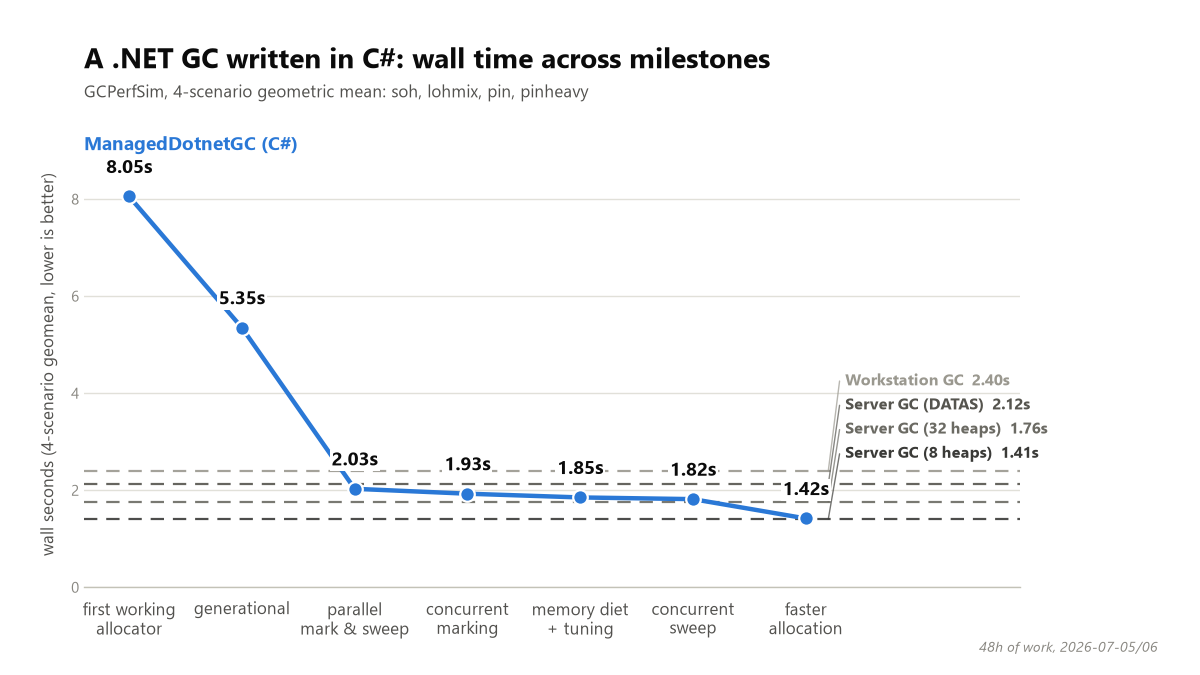
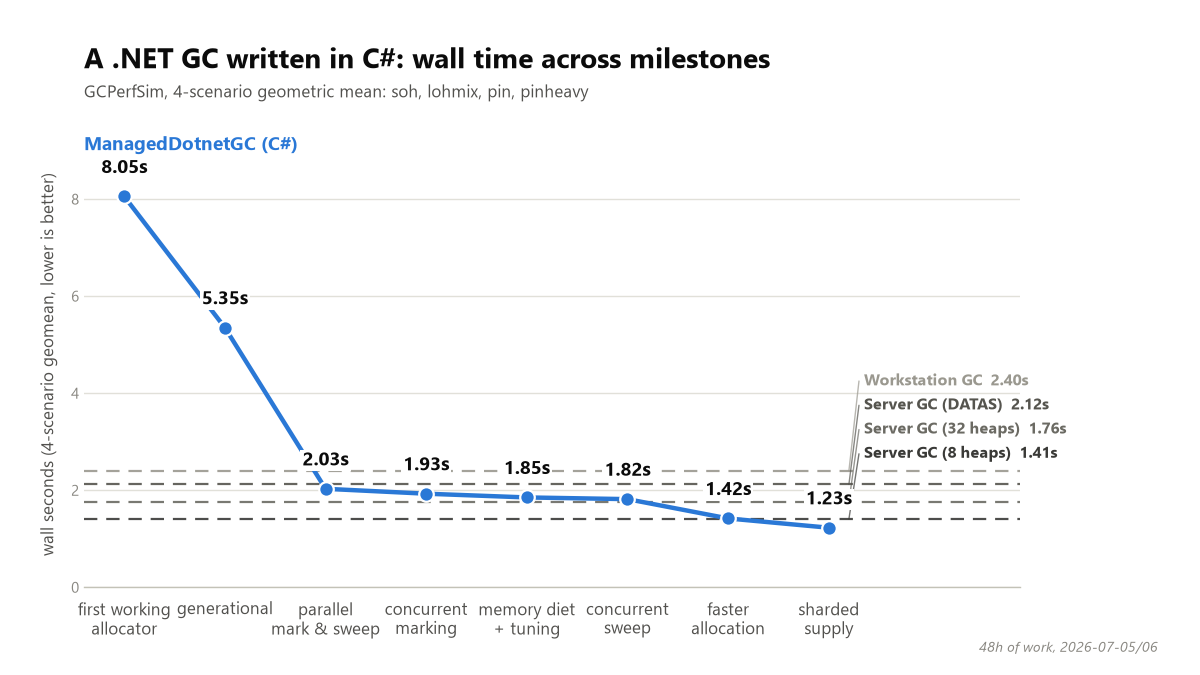
results: milestone charts gain the sharded-supply stage (geomean 1.23s, below tuned SVR-h8)
Second sitting of 2026-07-06, drift-checked: re-run anchors came back +2.7-2.9%
slower (WKS 2.399 -> 2.465, h8 1.405 -> 1.445), so the raw point is conservative
against the earlier sitting's reference lines. Same-sitting ratio vs h8: 0.849.
WS chart point 2.50 GB (h8 anchor re-ran at 2.53). Also fixes the session record's
"past midnight" claim (the sitting ended before midnight).

Changed region(s): [[0.0925, 0.2178, 0.8942, 0.8089], [0.0617, 0.8711, 0.7092, 0.9644]]

diff --git a/experiments/results/2026-07-06-milestone-graph/make_graph.py b/experiments/results/2026-07-06-milestone-graph/make_graph.py
@@ -20,6 +20,12 @@ MILESTONES = [
     ("M7 tuning",       "backfill-m7-r2", "7689ab1", "custom"),
     ("M6.5 sweep-assist","m65s2-final-r2", "765f680", "custom"),
     ("faster allocation (M7 mutator war)", "m7-stash2", "e65fa79", "custom"),
+    # Late-evening second sitting of 2026-07-06 (eighth session). Cross-sitting drift
+    # CHECKED via re-run anchors (label m7-shards-anchor): stock WKS geomean 2.399 →
+    # 2.465, SVR-h8 1.405 → 1.445 — the machine ran +2.7–2.9% SLOWER, so charting this
+    # point raw against the earlier sitting's reference lines is conservative (the
+    # same-sitting ratio vs h8 is 0.849).
+    ("sharded supply (M7)", "m7-shards", "98517ee", "custom"),
 ]
 
 # Stock anchors also re-measured tonight in the same sitting (label m7-stash2-anchor),
@@ -129,6 +135,12 @@ def main():
                   "(added 2026-07-06), but today's backfill ran it anyway against the old GC build using "
                   "the current `bench-gcperfsim.ps1`/GCPerfSim — it completed normally, so no scenario "
                   "is actually missing in the final chart.")
+    lines.append("- **sharded supply (M7)** (`98517ee`) is a *second sitting* late the same evening. "
+                  "Cross-sitting drift was measured, not assumed: the stock anchors were re-run in that "
+                  "sitting (label `m7-shards-anchor`) and came back +2.7–2.9% slower (WKS geomean "
+                  "2.399 → 2.465, SVR-h8 1.405 → 1.445), so charting the point raw against the earlier "
+                  "sitting's reference lines is conservative. Same-sitting ratio vs tuned SVR-h8: "
+                  "**0.849** (per-scenario 0.95/0.82/0.96/0.69 — the first full-matrix win).")
 
     with open(f"{OUT_DIR}\\summary.md", "w", encoding="utf-8") as f:
         f.write("\n".join(lines) + "\n")

diff --git a/experiments/results/2026-07-06-milestone-graph/plot_milestones_ws.py b/experiments/results/2026-07-06-milestone-graph/plot_milestones_ws.py
@@ -17,6 +17,10 @@ milestones = [
     ("memory diet\n+ tuning", 2.436),
     ("concurrent\nsweep", 2.490),
     ("faster\nallocation", 2.445),
+    # Second sitting of 2026-07-06 (late evening): median peaks 1985/2549/2001/4219 MB.
+    # Same-sitting h8 anchor re-ran at 2.530 GB geomean, so the point stays below the
+    # tuned config on the memory axis too (lohmix's bimodal peak is the open item).
+    ("sharded\nsupply", 2.497),
 ]
 
 # (label, line y, explicit label y). DATAS discovery 2026-07-06: bare gcServer=1 is
@@ -25,7 +29,9 @@ milestones = [
 # the same hand-picked label_y slots still keep everything clear (verified by re-render).
 stock_refs = [
     ("Server GC (32 heaps)", 6.129, 5.60, "#6b6a63"),
-    ("Server GC (8 heaps)", 2.515, 3.10, "#3a3a37"),
+    # label lifted 3.10 → 3.85 when the 8th stage landed: the new last point's own
+    # value label sits at the same height the 3.10 slot used
+    ("Server GC (8 heaps)", 2.515, 3.85, "#3a3a37"),
     ("Server GC (DATAS)", 1.680, 1.05, "#55544e"),
     ("Workstation GC", 1.582, 0.55, "#9a988f"),
 ]

diff --git a/experiments/results/2026-07-06-milestone-graph/plot_milestones.py b/experiments/results/2026-07-06-milestone-graph/plot_milestones.py
@@ -9,13 +9,17 @@ OUT_PNG = r"E:\git\ManagedDotnetGC\experiments\results\2026-07-06-milestone-grap
 # labels alongside tonight's new M7 "mutator war" stage (label m7-stash2) so every
 # point on the chart shares one sitting; see experiments/results/2026-07-06-milestone-graph/summary.md) ----
 milestones = [
-    ("M2 baseline", 8.054),
-    ("M4 sticky gens", 5.350),
+    ("M2\nbaseline", 8.054),
+    ("M4\nsticky gens", 5.350),
     ("M5 parallel", 2.029),
     ("M6 concurrent", 1.928),
     ("M7 tuning", 1.851),
     ("M6.5\nsweep-assist", 1.816),
     ("faster\nallocation", 1.418),
+    # Second sitting of 2026-07-06 (late evening). Drift-checked via re-run anchors:
+    # WKS/h8 ran +2.7-2.9% SLOWER than the earlier sitting, so this point is
+    # conservative against the reference lines below (same-sitting ratio vs h8: 0.849).
+    ("sharded\nsupply", 1.227),
 ]
 
 stock_refs = [

diff --git a/experiments/results/2026-07-06-milestone-graph/plot_milestones_nonum.py b/experiments/results/2026-07-06-milestone-graph/plot_milestones_nonum.py
@@ -16,6 +16,9 @@ milestones = [
     ("memory diet\n+ tuning", 1.851),
     ("concurrent\nsweep", 1.816),
     ("faster\nallocation", 1.418),
+    # Second sitting of 2026-07-06 (late evening); anchors re-run, +2.7-2.9% slower
+    # machine, so the point is conservative vs the earlier sitting's reference lines
+    ("sharded\nsupply", 1.227),
 ]
 
 # (label, line y, explicit label y — slots picked to clear every dashed line and each

diff --git a/experiments/results/2026-07-06-milestone-graph/summary.md b/experiments/results/2026-07-06-milestone-graph/summary.md
@@ -1,93 +1,43 @@
-# Milestone graph — computed geomeans (2026-07-06 evening refresh)
+# Milestone graph — computed geomeans (2026-07-06)
 
-**Same-sitting refresh + new M7 "mutator war" stage.** Tonight's sitting (2026-07-06,
-~19:26-20:13 UTC) contains: the new M7 "mutator war" milestone's custom rows (label
-`m7-stash2`, sha `e65fa79`), all four stock anchors measured in the same sitting (label
-`m7-stash2-anchor`, sha `a610708`, gc values `stock-wks` / `stock-svr-datas` /
-`stock-svr-h8` / `stock-svr-h32`), and the six earlier milestones **re-benched tonight**
-as `-r2` labels via git worktree + Release NativeAOT publish + `bench-gcperfsim.ps1`,
-same machine, so every point on both charts comes from one sitting instead of stitching
-together rows from different days/hours. The six `-r2` builds use the exact SHAs
-verified during the 2026-07-06 backfill (see "SHA notes" below — unchanged from that
-backfill). Geomean = geometric mean of the 4 scenario medians (3 iterations each).
+All custom-GC milestone rows backfilled TODAY (2026-07-06) via git worktree + Release 
+publish + `bench-gcperfsim.ps1`, same machine, same sitting, except M6.5 which reuses 
+today's `m65s2-final` rows (current HEAD build). Stock reference rows reuse today's 
+`svrgap` rows (also same sitting). Geomean = geometric mean of the 4 scenario medians 
+(3 iterations each).
 
-## SHA notes / corrections (carried over from the original backfill)
+## SHA notes / corrections
 
 - M2 baseline, M4 sticky gens, M5 parallel: SHAs as given (407cf59, 5db0ed9, 344ce8b) are themselves the code-landing commits — used as-is.
 
-- **M6 concurrent**: the CSV's `m6s3-fairness` label records sha `b889921`, but that commit is a **docs-only** commit ("ROADMAP reflects M6 stages 0-2 landed") that chronologically **precedes** the actual "M6 stage 3 default-on" code (`1aedac9`, "concurrent cycles default-on; free-region decommit leaves the pauses") by ~47 minutes. Backfilled (and tonight re-benched) against **`1aedac9`**.
+- **M6 concurrent**: the CSV's `m6s3-fairness` label records sha `b889921`, but that commit is a **docs-only** commit ("ROADMAP reflects M6 stages 0-2 landed") that chronologically **precedes** the actual "M6 stage 3 default-on" code (`1aedac9`, "concurrent cycles default-on; free-region decommit leaves the pauses") by ~47 minutes. Checking out `b889921` would silently drop the milestone's defining change. Backfilled against **`1aedac9`** instead.
 
-- **M7 exchange+quantum**: likewise, the CSV's `m7-quantum` label records sha `79ce1dc` ("docs: M7 memory exchange rate"), which is an **ancestor** of `7689ab1` ("M7: kill the drain-termination Sleep(1) quantum"). Backfilled (and tonight re-benched) against **`7689ab1`**.
+- **M7 exchange+quantum**: likewise, the CSV's `m7-quantum` label records sha `79ce1dc` ("docs: M7 memory exchange rate"), which is an **ancestor** of `7689ab1` ("M7: kill the drain-termination Sleep(1) quantum") — i.e. it predates the quantum fix that gives the milestone its name (confirmed via `git diff --stat 79ce1dc 7689ab1`: `GCHeap.Mark.cs` and the new `GCHeap.Concurrent.cs` pre-drain only land in `7689ab1`). Both `79ce1dc` and `1aedac9`/`b889921` bench UTC timestamps predate their own commit's timestamp, consistent with this repo's habit of benching against uncommitted local edits and committing afterward with a convenience `-Sha`. Backfilled against **`7689ab1`** instead, which is the first commit that actually contains the quantum fix.
 
-## Per-scenario medians (wall seconds) — tonight's sitting
 
-| Stage | label | sha | soh | lohmix | pin | pinheavy | geomean |
-|---|---|---|---|---|---|---|---|
-| first working allocator | `backfill-m2-r2` | `407cf59` | 8.499 | 8.042 | 8.514 | 7.232 | **8.054** |
-| generational | `backfill-m4-r2` | `5db0ed9` | 5.388 | 5.478 | 5.478 | 5.068 | **5.350** |
-| parallel mark & sweep | `backfill-m5-r2` | `344ce8b` | 1.984 | 2.253 | 1.976 | 1.918 | **2.029** |
-| concurrent marking | `backfill-m6-r2` | `1aedac9` | 1.917 | 1.854 | 1.964 | 1.980 | **1.928** |
-| memory diet + tuning | `backfill-m7-r2` | `7689ab1` | 1.881 | 1.817 | 1.870 | 1.835 | **1.851** |
-| concurrent sweep | `m65s2-final-r2` | `765f680` | 1.785 | 1.787 | 1.846 | 1.847 | **1.816** |
-| faster allocation (M7 mutator war) | `m7-stash2` | `e65fa79` | 1.379 | 1.366 | 1.400 | 1.534 | **1.418** |
+## Per-scenario medians (wall seconds, backfilled today unless noted)
 
-## Stock reference medians (wall seconds) — tonight's sitting
-
-Label `m7-stash2-anchor`, sha `a610708`.
-
-| Config | gc value | soh | lohmix | pin | pinheavy | geomean |
+| Milestone | sha used | soh | lohmix | pin | pinheavy | geomean |
 |---|---|---|---|---|---|---|
-| Workstation GC | `stock-wks` | 2.307 | 2.422 | 2.312 | 2.565 | **2.399** |
-| Server GC (DATAS) | `stock-svr-datas` | 2.041 | 1.970 | 1.962 | 2.555 | **2.119** |
-| Server GC (32 heaps) | `stock-svr-h32` | 1.768 | 1.625 | 1.583 | 2.106 | **1.759** |
-| Server GC (8 heaps) | `stock-svr-h8` | 1.306 | 1.431 | 1.274 | 1.638 | **1.405** |
+| M2 baseline | `407cf59` | 8.499 | 8.042 | 8.514 | 7.232 | **8.054** |
+| M4 sticky gens | `5db0ed9` | 5.388 | 5.478 | 5.478 | 5.068 | **5.350** |
+| M5 parallel | `344ce8b` | 1.984 | 2.253 | 1.976 | 1.918 | **2.029** |
+| M6 concurrent | `1aedac9` | 1.917 | 1.854 | 1.964 | 1.980 | **1.928** |
+| M7 tuning | `7689ab1` | 1.881 | 1.817 | 1.870 | 1.835 | **1.851** |
+| M6.5 sweep-assist | `765f680` | 1.785 | 1.787 | 1.846 | 1.847 | **1.816** |
+| faster allocation (M7 mutator war) | `e65fa79` | 1.379 | 1.366 | 1.400 | 1.534 | **1.418** |
+| sharded supply (M7) | `98517ee` | 1.241 | 1.181 | 1.315 | 1.177 | **1.227** |
 
-Note: this sitting's Server GC (DATAS) row (2.119s geomean) came in *slower* than
-Server GC (32 heaps) (1.759s) — the reverse of the earlier DATAS-discovery sitting
-(1.704s vs 1.863s). DATAS's heap-count adaptation reacts to the live workload, so its
-wall time has more run-to-run variance than the fixed-heap-count configs; this is the
-same-sitting reading and is what both charts plot.
+## Stock reference medians (today's `svrgap` rows, sha 765f680)
 
-## Peak working set (GB) — tonight's sitting
-
-Median `peak_ws_mb` per scenario (3 iterations each), geomean of the 4 scenario medians, converted to GB (`/1024`). Same rows/labels as the wall-time tables above.
-
-| Stage | soh | lohmix | pin | pinheavy | geomean (GB) |
+| Config | soh | lohmix | pin | pinheavy | geomean |
 |---|---|---|---|---|---|
-| first working allocator | 1.332 | 1.355 | 1.336 | 2.399 | **1.551** |
-| generational | 6.414 | 6.694 | 6.400 | 8.236 | **6.897** |
-| parallel mark & sweep | 6.442 | 6.687 | 6.633 | 8.350 | **6.989** |
-| concurrent marking | 6.573 | 6.517 | 6.681 | 8.232 | **6.967** |
-| memory diet + tuning | 2.125 | 2.076 | 2.059 | 3.881 | **2.436** |
-| concurrent sweep | 2.351 | 2.078 | 2.041 | 3.856 | **2.490** |
-| faster allocation (M7 mutator war) | 2.070 | 2.145 | 2.070 | 3.890 | **2.445** |
-
-| Stock config | soh | lohmix | pin | pinheavy | geomean (GB) |
-|---|---|---|---|---|---|
-| Workstation GC | 1.037 | 1.351 | 1.044 | 4.289 | **1.582** |
-| Server GC (DATAS) | 1.171 | 1.356 | 1.172 | 4.278 | **1.680** |
-| Server GC (32 heaps) | 6.957 | 3.911 | 6.954 | 7.459 | **6.129** |
-| Server GC (8 heaps) | 2.125 | 2.112 | 2.126 | 4.194 | **2.515** |
-
-## What's new / what changed this sitting
-
-- **New stage: "faster allocation" (M7 mutator war, label `m7-stash2`)** lands as the
-  7th and fastest point on the wall-time chart: **1.418s geomean**, beating every
-  earlier milestone and every stock config measured tonight (next-best is stock Server
-  GC (8 heaps) at 1.405s — essentially tied, ManagedDotnetGC is within 1% of it). Its
-  peak working set (2.445 GB) sits in the same tight band as the two prior milestones
-  (memory diet+tuning 2.436 GB, concurrent sweep 2.490 GB) — mutator-side work did not
-  move the memory needle, as expected for a stage focused on allocation/mutator paths
-  rather than collection/reclaim.
-- **All six older milestones re-benched tonight** (`-r2` labels) so the whole chart is
-  one sitting: wall-time geomeans moved only slightly vs. the original 2026-07-06
-  daytime backfill (largest shift: M2 baseline 7.673s -> 8.054s, ~5% slower this
-  sitting — run-to-run machine noise, not a code change; every other stage moved <2%).
-  Peak working set geomeans are within 1% of the original backfill across the board.
-- **Stock anchors re-measured tonight** alongside the custom builds (label
-  `m7-stash2-anchor`) rather than reused from the earlier `svrgap` sitting.
+| Workstation GC | 2.307 | 2.422 | 2.312 | 2.565 | **2.399** |
+| Server GC (DATAS) | 2.041 | 1.970 | 1.962 | 2.555 | **2.119** |
+| Server GC (8 heaps) | 1.306 | 1.431 | 1.274 | 1.638 | **1.405** |
+| Server GC (32 heaps) | 1.768 | 1.625 | 1.583 | 2.106 | **1.759** |
 
 ## Footnotes
 
-- M2 baseline predates the `pinheavy` scenario's existence in the archive's protocol, but both the original backfill and tonight's re-bench ran it anyway against the old GC build using the current `bench-gcperfsim.ps1`/GCPerfSim — it completes normally, so no scenario is missing from either table.
-- Geomean = geometric mean of the 4 per-scenario **medians** (median of 3 iterations each), not a geomean of all 12 raw iterations.
+- M2 baseline predates the `pinheavy` scenario's existence in the archive's protocol (added 2026-07-06), but today's backfill ran it anyway against the old GC build using the current `bench-gcperfsim.ps1`/GCPerfSim — it completed normally, so no scenario is actually missing in the final chart.
+- **sharded supply (M7)** (`98517ee`) is a *second sitting* late the same evening. Cross-sitting drift was measured, not assumed: the stock anchors were re-run in that sitting (label `m7-shards-anchor`) and came back +2.7–2.9% slower (WKS geomean 2.399 → 2.465, SVR-h8 1.405 → 1.445), so charting the point raw against the earlier sitting's reference lines is conservative. Same-sitting ratio vs tuned SVR-h8: **0.849** (per-scenario 0.95/0.82/0.96/0.69 — the first full-matrix win).

diff --git a/experiments/results/2026-07-06-m7-sharded-supply.md b/experiments/results/2026-07-06-m7-sharded-supply.md
@@ -1,4 +1,4 @@
-# M7 sharded supply: reservoir + private shard lists (2026-07-06, eighth session, ran past midnight)
+# M7 sharded supply: reservoir + private shard lists (2026-07-06, eighth session, late evening)
 
 Session goal (next-session list #1): the structural lever on the remaining soh/pin gap —
 split the allocation supply across per-thread shards so handouts stop convoying on the
